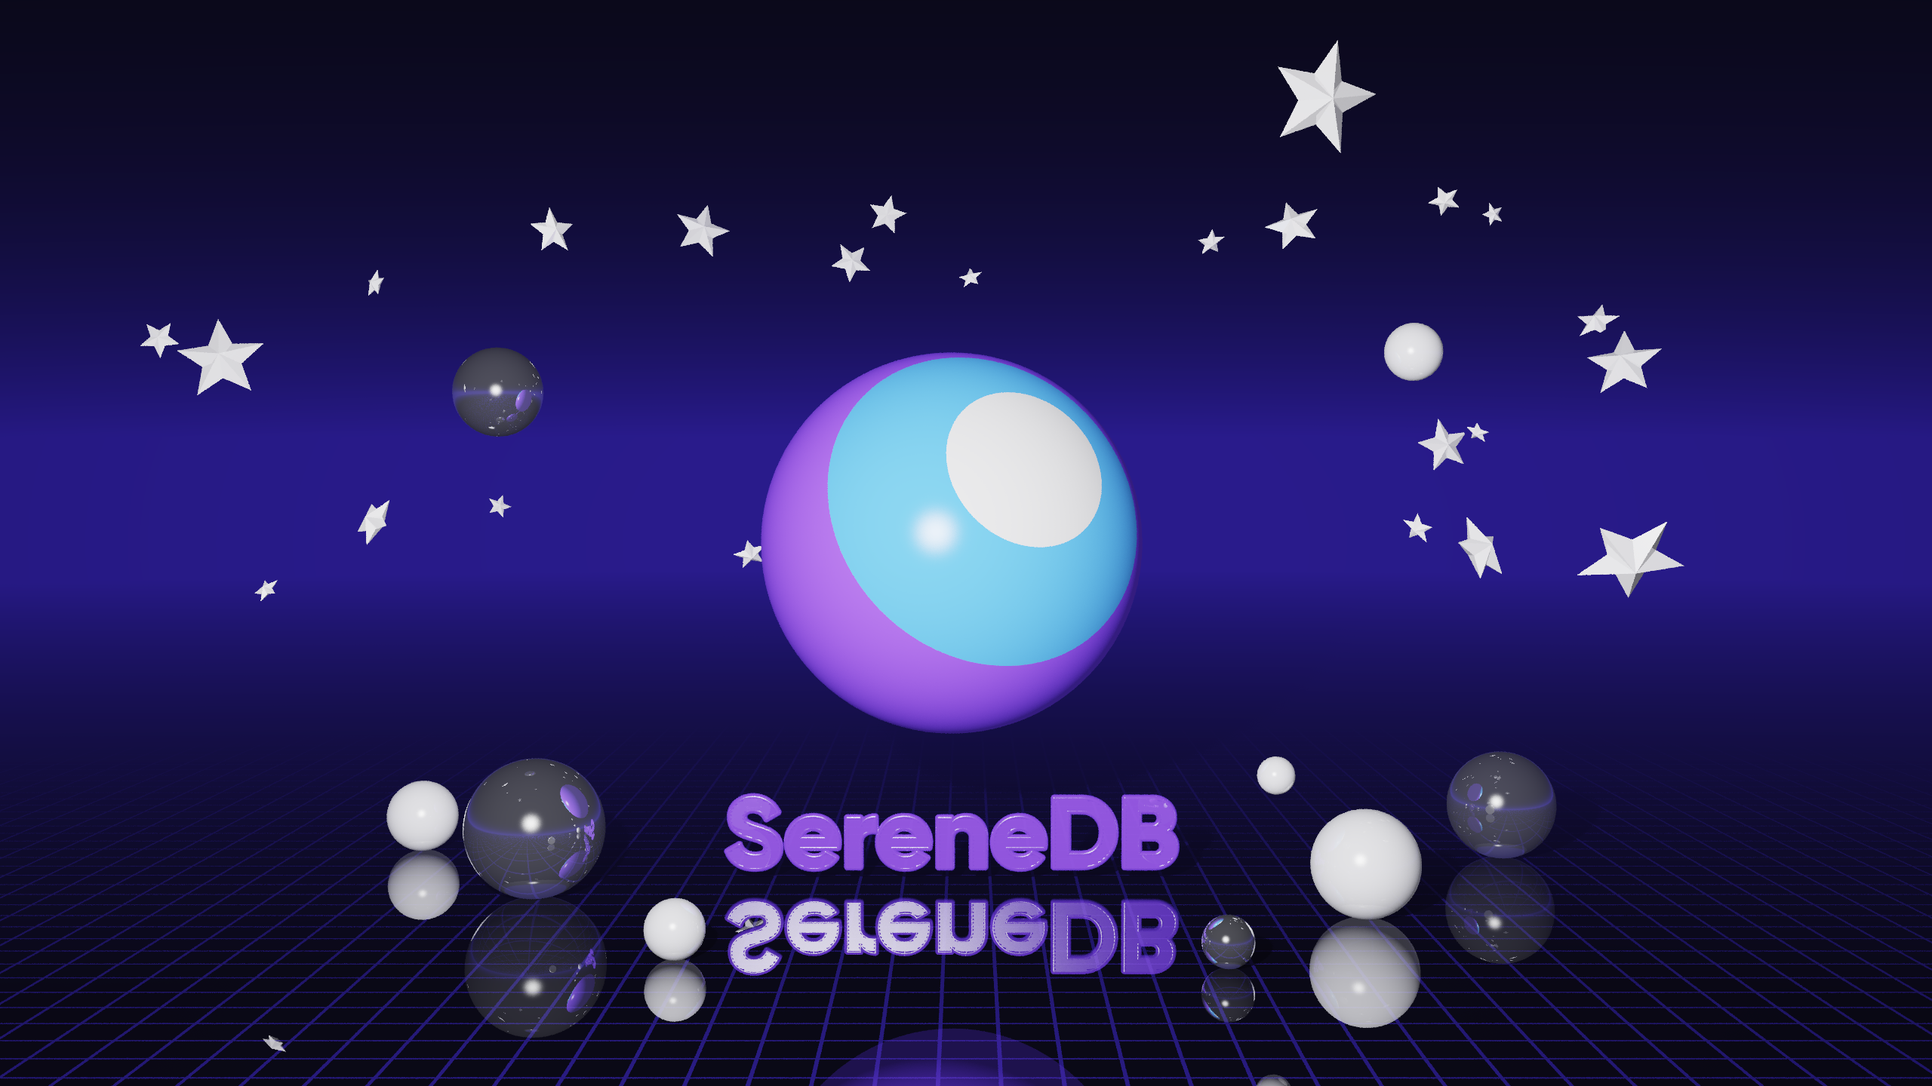
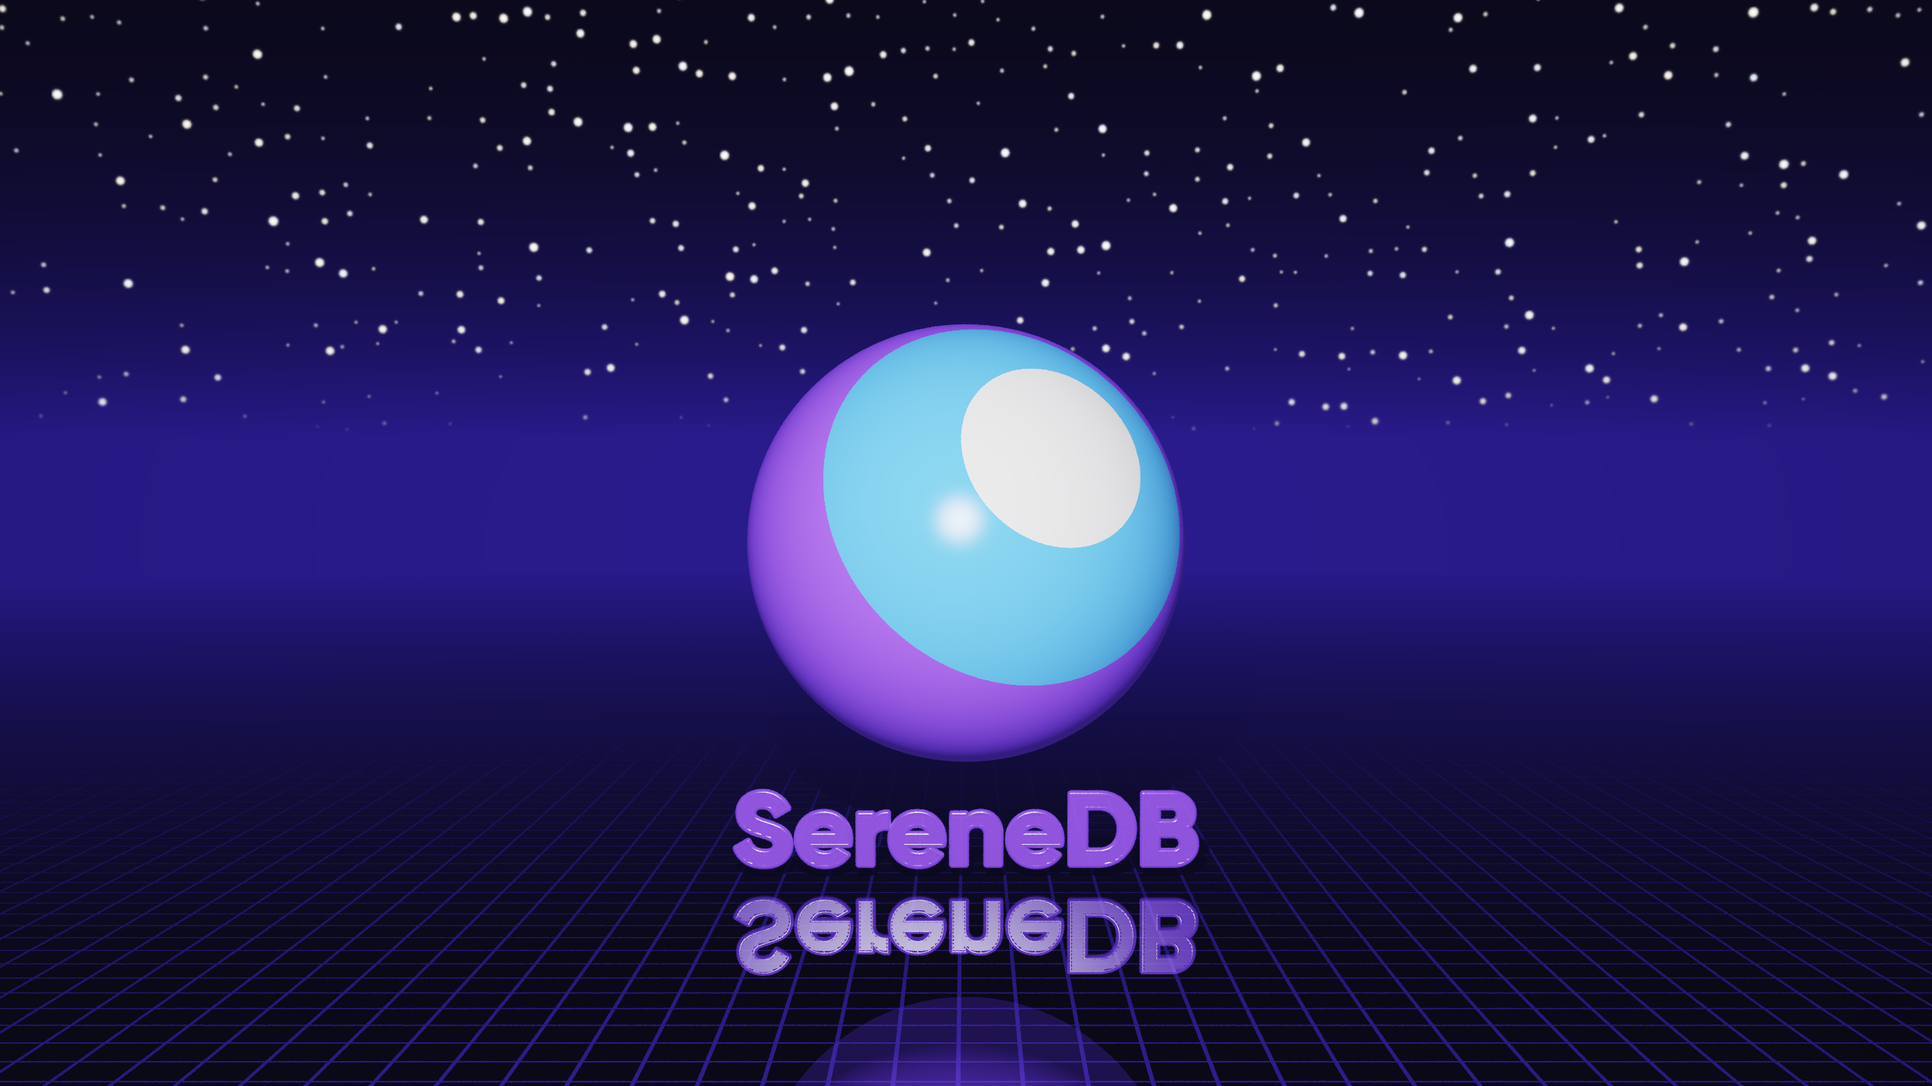
Back to one planet under a starry sky
The planet in the middle of the picture, the wordmark under it and the
stars painted on the sky, as in the first take: the moons, the balls on
the floor and the solid stars are gone, and with them the arrays the balls
were tested through and the triangle tests. The stars are a hash of the
direction a camera ray leaves the scene in, so the polished floor does not
fill up with reflected ones; the light theme has none.

1920x1080, 2 samples, M1 Pro: SereneDB 26.10.2 3.2 s, ClickHouse
26.9.22.3 14.5 s, the same PNG byte for byte. New 2560x1440 backups.

diff --git a/gen.py b/gen.py
@@ -12,7 +12,6 @@ lambda, a let-binding, a tuple element or a list function differs.
 import argparse
 import itertools
 import math
-import random
 import re
 import sys
 
@@ -108,9 +107,6 @@ def define_vectors():
         macro("vd", ["a", "b"], "dotProduct(a, b)")
         macro("vlen", ["a"], "L2Norm(a)")
         macro("vn", ["a"], "L2Normalize(a)")
-        macro("vx", ["a", "b"], f"({el('a', 2)} * {el('b', 3)} - {el('a', 3)} * {el('b', 2)}, "
-                                f"{el('a', 3)} * {el('b', 1)} - {el('a', 1)} * {el('b', 3)}, "
-                                f"{el('a', 1)} * {el('b', 2)} - {el('a', 2)} * {el('b', 1)})")
     else:
         x = lambda i: el("x", i)
         y = lambda i: el("y", i)
@@ -121,9 +117,6 @@ def define_vectors():
         macro("vd", ["a", "b"], let([("x", "a"), ("y", "b")], f"{x(1)} * {y(1)} + {x(2)} * {y(2)} + {x(3)} * {y(3)}"))
         macro("vlen", ["a"], let([("x", "a")], f"sqrt({x(1)} * {x(1)} + {x(2)} * {x(2)} + {x(3)} * {x(3)})"))
         macro("vn", ["a"], let([("x", "a"), ("y", "vlen(x)")], f"({x(1)} / y, {x(2)} / y, {x(3)} / y)"))
-        macro("vx", ["a", "b"], let([("x", "a"), ("y", "b")], f"({x(2)} * {y(3)} - {x(3)} * {y(2)}, "
-                                                              f"{x(3)} * {y(1)} - {x(1)} * {y(3)}, "
-                                                              f"{x(1)} * {y(2)} - {x(2)} * {y(1)})"))
     macro("vref", ["d", "n"], "vs(d, vm(n, 2.0 * vd(d, n)))")
 
 
@@ -142,49 +135,26 @@ LOGO_BLUE = srgb("#5FA8FF")   # a touch deeper: the filmic curve lifts it back
 MATERIALS = {
     "violet":  (PURPLE,             0.75, 0.35, (0.85, 0.80, 1.0),  1.0),
     "logo":    (PURPLE,             0.90, 0.0,  (1.0, 1.0, 1.0),    0.6),
-    # A mirror with a cold tint: it shows the whole scene back.
-    "chrome":  ((0.85, 0.86, 0.92), 0.20, 0.82, (0.95, 0.96, 1.0),  1.0),
-    "pearl":   ((0.82, 0.82, 0.88), 0.80, 0.22, (1.0, 1.0, 1.0),    0.9),
-    # The stars: bright, a little glossy, faceted by their flat triangles.
-    "star":    ((0.95, 0.94, 1.0),  0.85, 0.25, (1.0, 1.0, 1.0),    1.0),
 }
 THEMES = {
     # haze (the far floor) is the horizon color, so floor and sky meet without a seam.
+    # stars: how bright the star field is; a daytime sky has none.
     "light": dict(floor="#F4F1FF", grid="#B9A8F2", floor_kr=0.25, horizon="#E9E3FF", zenith="#9C8BE6",
-                  amb=0.30, shadow=0.3, exposure=0.95),
+                  amb=0.30, shadow=0.3, exposure=0.95, stars=0.0),
     "dark":  dict(floor="#0E0B22", grid="#5A43C9", floor_kr=0.45, horizon="#24195E", zenith="#05040F",
-                  amb=0.10, shadow=1.0, exposure=1.6),
+                  amb=0.10, shadow=1.0, exposure=1.6, stars=1.0),
 }
 THEME = THEMES["dark"]
 # The wordmark: bold, wide tubes, like the SereneDB logo's lettering.
 TITLE = dict(tube=0.3, cell=0.8)
 # The planet floats over the middle of the wordmark: its radius is a fraction of the
-# wordmark's width, `gap` is the air between them. Everything else is placed in planet
-# radii from its centre: x to the right, y away from the camera, z up.
-PLANET = dict(title_z=3.0, title_size=2.2, radius=0.42, gap=12.0)
-# Moons around the planet: (x, y, z) of the centre, radius, material.
-MOONS = [
-    ((-2.45, 0.30, 0.80), 0.24, "chrome"),
-    ((2.40, -0.10, 1.00), 0.15, "pearl"),
-    ((1.55, -1.10, -1.05), 0.09, "pearl"),
-]
-# Balls resting on the floor: (x, y) in planet radii from under its centre, radius, material.
-FLOOR_BALLS = [
-    ((-2.15, -0.30), 0.36, "chrome"),
-    ((2.05, -0.75), 0.27, "pearl"),
-    ((-1.25, -1.55), 0.14, "pearl"),
-    ((1.25, -1.70), 0.12, "chrome"),
-    ((-3.05, 0.90), 0.20, "pearl"),
-    ((3.10, 0.70), 0.30, "chrome"),
-]
-# Solid five-pointed stars flying around the planet, placed by a seeded shuffle so the
-# picture is the same on every run: how many, the range of their radii, and the box they
-# fly in (x, y, z ranges), all in planet radii from its centre. A star never sits in front
-# of the planet's face, nor too close to another object.
-STARS = dict(count=26, seed=11, size=(0.08, 0.28), box=((-4.4, 4.4), (-1.6, 5.0), (-0.55, 2.15)))
+# wordmark's width, `gap` is the air between them.
+PLANET = dict(title_z=3.0, title_size=2.2, radius=0.47, gap=6.0)
 # How much bigger than the scene the picture is, in each direction: the rest is sky and floor.
 FRAME = 1.25
-
+# The sky is cut into cells of `cell` radians of azimuth by height; a cell holds a star
+# with probability `density`, somewhere inside it, `size` radians in radius at its faintest.
+STARS = dict(cell=0.012, density=0.35, size=0.0007)
 TILE = 8.0
 GRID_LINE = 0.035   # half-width of a floor grid line, as a fraction of a tile
 
@@ -256,61 +226,8 @@ class Ball:
         self.c, self.r, self.mat = c, r, mat
 
 
-class Star:
-    """A solid five-pointed star: ten points round its rim, alternately out and in, and an
-    apex on each face, so twenty flat triangles. It lies in the x-z plane facing the
-    camera, then is turned by (yaw, pitch, roll) and moved to c."""
-
-    TRIANGLES = 20
-
-    def __init__(self, c, size, turn, mat="star", inner=0.45, depth=0.42):
-        self.c, self.r, self.mat = c, size, mat
-        yaw, pitch, roll = (math.radians(a) for a in turn)
-        rz = ((math.cos(yaw), -math.sin(yaw), 0.0), (math.sin(yaw), math.cos(yaw), 0.0), (0.0, 0.0, 1.0))
-        rx = ((1.0, 0.0, 0.0), (0.0, math.cos(pitch), -math.sin(pitch)), (0.0, math.sin(pitch), math.cos(pitch)))
-        ry = ((math.cos(roll), 0.0, math.sin(roll)), (0.0, 1.0, 0.0), (-math.sin(roll), 0.0, math.cos(roll)))
-        m = matmul(rz, matmul(rx, ry))
-        at = lambda v: tuple(c[i] + sum(m[i][j] * v[j] for j in range(3)) for i in range(3))
-        rim = []
-        for k in range(10):
-            a = math.pi / 2 + k * math.pi / 5
-            r = size if k % 2 == 0 else size * inner
-            rim.append(at((r * math.cos(a), 0.0, r * math.sin(a))))
-        front, back = at((0.0, -depth * size, 0.0)), at((0.0, depth * size, 0.0))
-        self.tris = []
-        for k in range(10):
-            p, q = rim[k], rim[(k + 1) % 10]
-            self.tris += [(p, q, front), (q, p, back)]
-
-
-def place_stars(planet, moons, R):
-    rng = random.Random(STARS["seed"])
-    (xa, xb), (ya, yb), (za, zb) = STARS["box"]
-    lo, hi = STARS["size"]
-    stars = []
-    while len(stars) < STARS["count"]:
-        x, y, z = rng.uniform(xa, xb), rng.uniform(ya, yb), rng.uniform(za, zb)
-        r = lo + (hi - lo) * rng.random() ** 2   # mostly small, a few big
-        c = (planet.c[0] + x * R, y * R, planet.c[2] + z * R)
-        # Not over the planet's face, as the camera sees it.
-        if abs(x) < 1.35 and abs(z) < 1.35 and y < 1.0:
-            continue
-        others = [planet] + moons + stars
-        if any(math.dist(c, o.c) < o.r + r * R + 0.25 * R for o in others):
-            continue
-        # Mostly facing the camera, turned enough that the facets catch the light.
-        turn = (rng.uniform(-50, 50), rng.uniform(-40, 40), rng.uniform(0, 72))
-        stars.append(Star(c, r * R, turn))
-    return stars
-
-
-def matmul(a, b):
-    return tuple(tuple(sum(a[i][k] * b[k][j] for k in range(3)) for j in range(3)) for i in range(3))
-
-
 def layout():
-    """The SereneDB mark as a planet in the middle of the picture, moons and solid stars
-    flying around it, the name on the floor under it, and balls resting on that floor.
+    """The SereneDB mark as a planet in the middle of the picture, the name on the floor under it.
 
     Returns the objects, the box the picture must hold (the wordmark's reflection
     included) and the height the camera aims at: the planet's centre.
@@ -318,23 +235,15 @@ def layout():
     title = Wordmark(x0=0.0, z_bottom=PLANET["title_z"], size=PLANET["title_size"], mat="violet", **TITLE)
     R = PLANET["radius"] * title.width
     cx = title.width / 2
-    cz = title.zt + PLANET["gap"] + R
-    planet = Ball((cx, 0.0, cz), R, "logo")
-    moons = [Ball((cx + x * R, y * R, cz + z * R), r * R, m) for (x, y, z), r, m in MOONS]
-    floor = [Ball((cx + x * R, y * R, r * R), r * R, m) for (x, y), r, m in FLOOR_BALLS]
-    stars = place_stars(planet, moons, R)
-    balls = [planet] + moons + floor
-    # The picture is framed on the balls; stars may fly off its edges.
-    x0 = min(b.c[0] - b.r for b in balls)
-    x1 = max(b.c[0] + b.r for b in balls)
-    z1 = max(b.c[2] + b.r for b in balls)
-    return [title], balls, stars, (x0, x1, -title.zt, z1), cz
+    ball = Ball((cx, 0.0, title.zt + PLANET["gap"] + R), R, "logo")
+    bbox = (cx - R, cx + R, -title.zt, ball.c[2] + R)
+    return [title], [ball], bbox, ball.c[2]
 
 
 # ---- the query --------------------------------------------------------------------
 
 def build(args):
-    texts, balls, stars, (x0, x1, z0, z1), aim = layout()
+    texts, balls, (x0, x1, z0, z1), aim = layout()
     mats = list(MATERIALS)
     mid = {m: i + 1 for i, m in enumerate(mats)}   # 0 is the floor
 
@@ -343,7 +252,7 @@ def build(args):
     aspect = args.width / args.height
     fov = math.radians(args.fov)
     th = math.tan(fov / 2)
-    w, h = (x1 - x0) * 1.06, 2 * max(z1 - aim, aim - z0) * FRAME
+    w, h = (x1 - x0) * FRAME, 2 * max(z1 - aim, aim - z0) * FRAME
     dist = max(h / 2 / th, w / 2 / (th * aspect))
     target = ((x0 + x1) / 2, 0.0, aim)
     elev = math.radians(args.elevation)
@@ -352,9 +261,8 @@ def build(args):
     right = norm(cross(fwd, (0.0, 0.0, 1.0)))
     up = cross(right, fwd)
     span = max(x1 - x0, z1 - z0)
-    # Near the camera and a little above and left of it, so the shadows fall behind the
-    # objects rather than on the wordmark under them.
-    light = (x0 + 0.3 * (x1 - x0), eye[1] * 0.8, eye[2] + 0.12 * span)
+    # Near the camera and a bit above it, so the shadows fall behind the letters.
+    light = (x0 + 0.3 * (x1 - x0), eye[1] * 0.8, eye[2] + 0.45 * span)
 
     const("eps", "0.0005")
     const("eye", vec(eye))
@@ -381,10 +289,29 @@ def build(args):
         [("b", "vd(p, d)"), ("disc", "b * b - (vd(p, p) - rr)")],
         "if(disc > 0.0, if(-b - sqrt(greatest(disc, 0.0)) > $eps, -b - sqrt(greatest(disc, 0.0)), 1e9), 1e9)"))
     macro("planeT", ["o", "d"], f"if({el('d', 3)} < -0.000001 AND {el('o', 3)} > 0.0, -{el('o', 3)} / least({el('d', 3)}, -0.000001), 1e9)")
-    # A portable hash, so both engines jitter the samples identically.
+    # A portable hash, so both engines jitter the samples (and place the stars) identically.
     macro("rnd", ["a", "b", "c"], let([("x", "sin(a * 12.9898 + b * 78.233 + c * 37.719) * 43758.5453")], "x - floor(x)"))
-    # A dark sky with a glow along the horizon.
-    macro("sky", ["d"], let([("k", f"exp(-greatest({el('d', 3)}, 0.0) * 14.0)")], "va(vm($horizon, k), vm($zenith, 1.0 - k))"))
+    # A dark sky with a glow along the horizon, and stars that fade into that glow.
+    glow = "va(vm($horizon, k), vm($zenith, 1.0 - k))"
+    if THEME["stars"] > 0:
+        cell, dens = STARS["cell"], STARS["density"]
+        macro("star", ["d"], let([
+            # Azimuth and height of the direction, in cells; the camera looks along +y.
+            ("su", f"atan2({el('d', 1)}, {el('d', 2)}) / {num(cell)}"),
+            ("sv", f"{el('d', 3)} / {num(cell)}"),
+            ("cu", "floor(su)"), ("cv", "floor(sv)"),
+            ("roll", "rnd(cu, cv, 7.0)"),
+            # 0 for the faintest star there is, 1 for the brightest.
+            ("mag", f"(roll - {num(1.0 - dens)}) / {num(dens)}"),
+            ("px", "cu + 0.2 + 0.6 * rnd(cu, cv, 8.0)"),
+            ("py", "cv + 0.2 + 0.6 * rnd(cu, cv, 9.0)"),
+            ("dd", f"((su - px) * (su - px) + (sv - py) * (sv - py)) * {num((cell / STARS['size']) ** 2)}"),
+            ("lum", f"if(roll > {num(1.0 - dens)}, (0.25 + 3.0 * pow(mag, 4)) * exp(-dd / (1.0 + 2.0 * mag * mag)), 0.0)"),
+            # Some a little blue, some a little warm; all of them gone into the horizon's glow.
+            ("hue", "rnd(cu, cv, 10.0)"),
+            ("k", f"exp(-greatest({el('d', 3)}, 0.0) * 14.0)"),
+        ], f"vm(va(vm({vec((0.78, 0.86, 1.0))}, hue), vm({vec((1.0, 0.9, 0.78))}, 1.0 - hue)), lum * {num(THEME['stars'])} * (1.0 - k))"))
+    macro("sky", ["d"], let([("k", f"exp(-greatest({el('d', 3)}, 0.0) * 14.0)")], glow))
     # A polished floor with a thin grid.
     macro("floorCol", ["p"], let([
         ("fx", f"{el('p', 1)} / {num(TILE)} - floor({el('p', 1)} / {num(TILE)})"),
@@ -472,63 +399,11 @@ def build(args):
                 ("w2", "(u - 0.365 + (v - 0.365)) * 0.70711 / 0.350"),
             ], f"if(front AND w1 * w1 + w2 * w2 <= 1.0, (0.72, 0.72, 0.76), if(front AND b1 * b1 + b2 * b2 <= 1.0, {vec(LOGO_BLUE)}, {vec(PURPLE)}))"))
 
-    # The stars are triangles, again in arrays: a vertex and two edges of each, and its
-    # normal. A ray first tests each star's bounding sphere, then only the triangles of the
-    # nearest star whose sphere it crosses (Moller-Trumbore).
-    tris = [t for st in stars for t in st.tris]
-    e1s = [sub(t[1], t[0]) for t in tris]
-    e2s = [sub(t[2], t[0]) for t in tris]
-    vecs = lambda vs: "[" + ", ".join(vec(v) for v in vs) + "]"
-    const("tv", vecs(t[0] for t in tris))
-    const("t1", vecs(e1s))
-    const("t2", vecs(e2s))
-    const("tn", vecs(norm(cross(a, b)) for a, b in zip(e1s, e2s)))
-    const("sc", vecs(st.c for st in stars))
-    const("srr", "[" + ", ".join(num((st.r * 1.01) ** 2) for st in stars) + "]")
-    macro("triT", ["o", "d", "j"], let([
-        ("v0", "$tv[j + 1]"),
-        ("e1", "$t1[j + 1]"),
-        ("e2", "$t2[j + 1]"),
-        ("pv", "vx(d, e2)"),
-        ("det", "vd(e1, pv)"),
-        ("inv", "1.0 / if(abs(det) < 0.000000001, 0.000000001, det)"),
-        ("sv", "vs(o, v0)"),
-        ("u", "vd(sv, pv) * inv"),
-        ("qv", "vx(sv, e1)"),
-        ("w", "vd(d, qv) * inv"),
-        ("t", "vd(e2, qv) * inv"),
-    ], "if(abs(det) > 0.000000001 AND u >= 0.0 AND u <= 1.0 AND w >= 0.0 AND u + w <= 1.0 AND t > $eps, t, 1e9)"))
-    T = Star.TRIANGLES
-    macro("starHit", ["o", "d"], let([
-        # Where the ray enters each star's bounding sphere, 1e9 if it does not.
-        ("bt", amap("i", f"range({len(stars)})", let([
-            ("oc", "vs(o, $sc[i + 1])"),
-            ("b", "vd(oc, d)"),
-            ("disc", "b * b - (vd(oc, oc) - $srr[i + 1])"),
-        ], "if(disc > 0.0 AND -b + sqrt(greatest(disc, 0.0)) > 0.0, -b - sqrt(greatest(disc, 0.0)), 1e9)"))),
-        ("tb", amin("bt")),
-        ("k", f"{index_of('bt', 'tb')} - 1"),
-        # Only the nearest of them is tested: the stars do not overlap enough for the one
-        # behind to matter, and one star's triangles are one fixed range.
-        ("ts", f"if(tb < 1e8, {amap('j', f'range(k * {T}, k * {T} + {T})', 'triT(o, d, j)')}, [1e9])"),
-        ("tm", amin("ts")),
-    ], f"(tm, if(tm < 1e8, k * {T} + {index_of('ts', 'tm')} - 1, 0))"))
-
-    # Every ball is an entry of three arrays, and one map over them tests them all. One
-    # map and not a test per ball, because ClickHouse refuses more than 64 nested lambdas
-    # and each let-binding is one: this way the depth does not grow with the scene.
-    nums = lambda xs: "[" + ", ".join(num(x) for x in xs) + "]"
-    const("bc", "[" + ", ".join(vec(b.c) for b in balls) + "]")
-    const("brr", nums(b.r * b.r for b in balls))
-    const("bm", "[" + ", ".join(str(mid[b.mat]) for b in balls) + "]")
-    macro("ballTs", ["o", "d"], amap("i", f"range({len(balls)})",
-                                     "sphT(vs(o, $bc[i + 1]), d, $brr[i + 1])"))
+    def ball_t(b, o):
+        return f"sphT(vs({o}, {vec(b.c)}), d, {num(b.r * b.r)})"
 
     hits = [f"{el(f'text{k}(o, d)', 1)} < maxd" for k in range(len(texts))]
-    hits += [f"{amin('ballTs(o, d)')} < maxd"]
-    # The stars cast no shadows. The light is beside the camera, so a star's shadow
-    # falls behind it, where the camera does not see it, and testing every shadow ray
-    # against their triangles would cost a good part of the render for nothing.
+    hits += [f"{ball_t(b, 'o')} < maxd" for b in balls]
     macro("occluded", ["o", "d", "maxd"], " OR ".join(hits))
 
     def by_mat(field, default):
@@ -549,12 +424,9 @@ def build(args):
         binds.append((f"h{k}", f"text{k}(o, d)"))
         binds.append((f"t{k}", el(f"h{k}", 1)))
         objs.append((f"t{k}", mid[texts[k].mat], f"capN{k}(hp, {el(f'h{k}', 2)})"))
-    binds += [("bts", "ballTs(o, d)"), ("tB", amin("bts")), ("iB", index_of("bts", "tB"))]
-    objs.append(("tB", "$bm[iB]", "vn(vs(hp, $bc[iB]))"))
-    binds += [("hs", "starHit(o, d)"), ("tS", el("hs", 1)), ("jS", el("hs", 2))]
-    # Two-sided: a star's facet faces whoever is looking at it.
-    sn = "$tn[jS + 1]"
-    objs.append(("tS", mid["star"], f"if(vd(d, {sn}) < 0.0, {sn}, vm({sn}, -1.0))"))
+    for j, b in enumerate(balls):
+        binds.append((f"l{j}", ball_t(b, "o")))
+        objs.append((f"l{j}", mid[b.mat], f"vn(vs(hp, {vec(b.c)}))"))
     mat_expr, nrm_expr = "0", "(0.0, 0.0, 1.0)"
     for tv, m, n in reversed(objs):
         mat_expr = f"if({tv} = tObj, {m}, {mat_expr})"
@@ -582,7 +454,10 @@ def build(args):
         ("loc", "va(vm(base, ($amb + matKd(m) * lam) * (1.0 - kr)), (spec, spec, spec))"),
         ("locF", "va(vm(loc, 1.0 - fog), vm($haze, fog))"),
     ]
-    body = ("if(miss, (o, d, thr, va(acc, vmul(thr, sky(d))), 0.0), "
+    # Stars are seen straight from the camera only: a ray that has bounced off anything has
+    # thr < 1, and a floor full of reflected stars hides where the horizon is.
+    sky = f"va(sky(d), if({el('thr', 1)} > 0.999, star(d), (0.0, 0.0, 0.0)))" if THEME["stars"] > 0 else "sky(d)"
+    body = (f"if(miss, (o, d, thr, va(acc, vmul(thr, {sky})), 0.0), "
             "(shO, rdir, vm(vmul(thr, matTint(m)), kr * (1.0 - fog)), va(acc, vmul(thr, locF)), if(kr > 0.001, 1.0, 0.0)))")
     macro("bounce", ["s", "lpos"], let(binds, body))
 

diff --git a/README.md b/README.md
@@ -1,7 +1,7 @@
 # raytracer-demo
 
-A database draws a 3D picture: the SereneDB logo as a planet, with moons, mirror balls and solid
-stars flying around it, ray traced by **one SQL query** running inside SereneDB, live on the laptop.
+A database draws a 3D picture: the SereneDB logo as a planet under a starry sky, ray traced by
+**one SQL query** running inside SereneDB, live on the laptop.
 
 ![the picture](images/serenedb_dark.png)
 
@@ -73,8 +73,7 @@ Where to change the design, all in `gen.py`:
 | sky, floor, grid colors, shadow strength, exposure | `THEMES` |
 | how matte, glossy or mirror-like every object is | `MATERIALS` |
 | the planet's size and the wordmark under it | `PLANET` |
-| the moons and the balls on the floor: where, how big, which material | `MOONS`, `FLOOR_BALLS` |
-| the flying stars: how many, how big, where they may fly (and the seed that places them) | `STARS` |
+| the stars: how dense, how big (how bright is `stars` in `THEMES`; the light sky has none) | `STARS` |
 | how they are put together | `layout()` |
 | the wordmark's tube thickness | `TITLE` |
 | camera | `--fov`, `--elevation` of `gen.py`; how much room is left around the scene is `FRAME` |
@@ -90,8 +89,8 @@ settings its own [RayTracer](https://github.com/ClickHouse/RayTracer) queries us
 
 | Engine | Time |
 |---|---:|
-| SereneDB 26.10.2 | 6.9 s |
-| ClickHouse 26.9.22.3 | 27.3 s |
+| SereneDB 26.10.2 | 3.2 s |
+| ClickHouse 26.9.22.3 | 14.5 s |
 
 Another machine will give other numbers; the ratio is what matters.
 
@@ -109,13 +108,10 @@ spelling differs (macros vs `WITH` lambdas, `list_transform` vs `arrayMap`, ...)
   the tubes are binned into a grid of the text plane, so a ray only tests the tubes in the cells
   it actually passes through;
 - the planet is one ball with the SereneDB mark painted on the side facing the camera;
-- every ball (the planet, the moons, the ones on the floor) is an entry of a few arrays, and one
-  `list_transform` / `arrayMap` tests a ray against all of them. One map and not a test per ball,
-  because ClickHouse refuses more than 64 nested lambdas, and every let-binding of the query is one;
-- each star is 20 flat triangles, a five-pointed rim with an apex on either face, tested with
-  Moller-Trumbore; a ray first checks every star's bounding sphere and then only the triangles of
-  the nearest star whose sphere it crosses. The stars cast no shadows: the light is beside the
-  camera, so a shadow would fall where the camera does not see it;
+- the stars are in the sky, not in the scene: a ray that misses everything looks up which cell of
+  (azimuth, height) it points at, and a hash of the cell decides whether a star sits there, where,
+  how bright and how warm. Only rays straight from the camera see them, so the polished floor
+  does not fill up with reflected stars;
 - `GROUP BY pixel` averages the samples, and `png.py` turns the `pixel, r, g, b` rows into a PNG.
 
 ```bash
